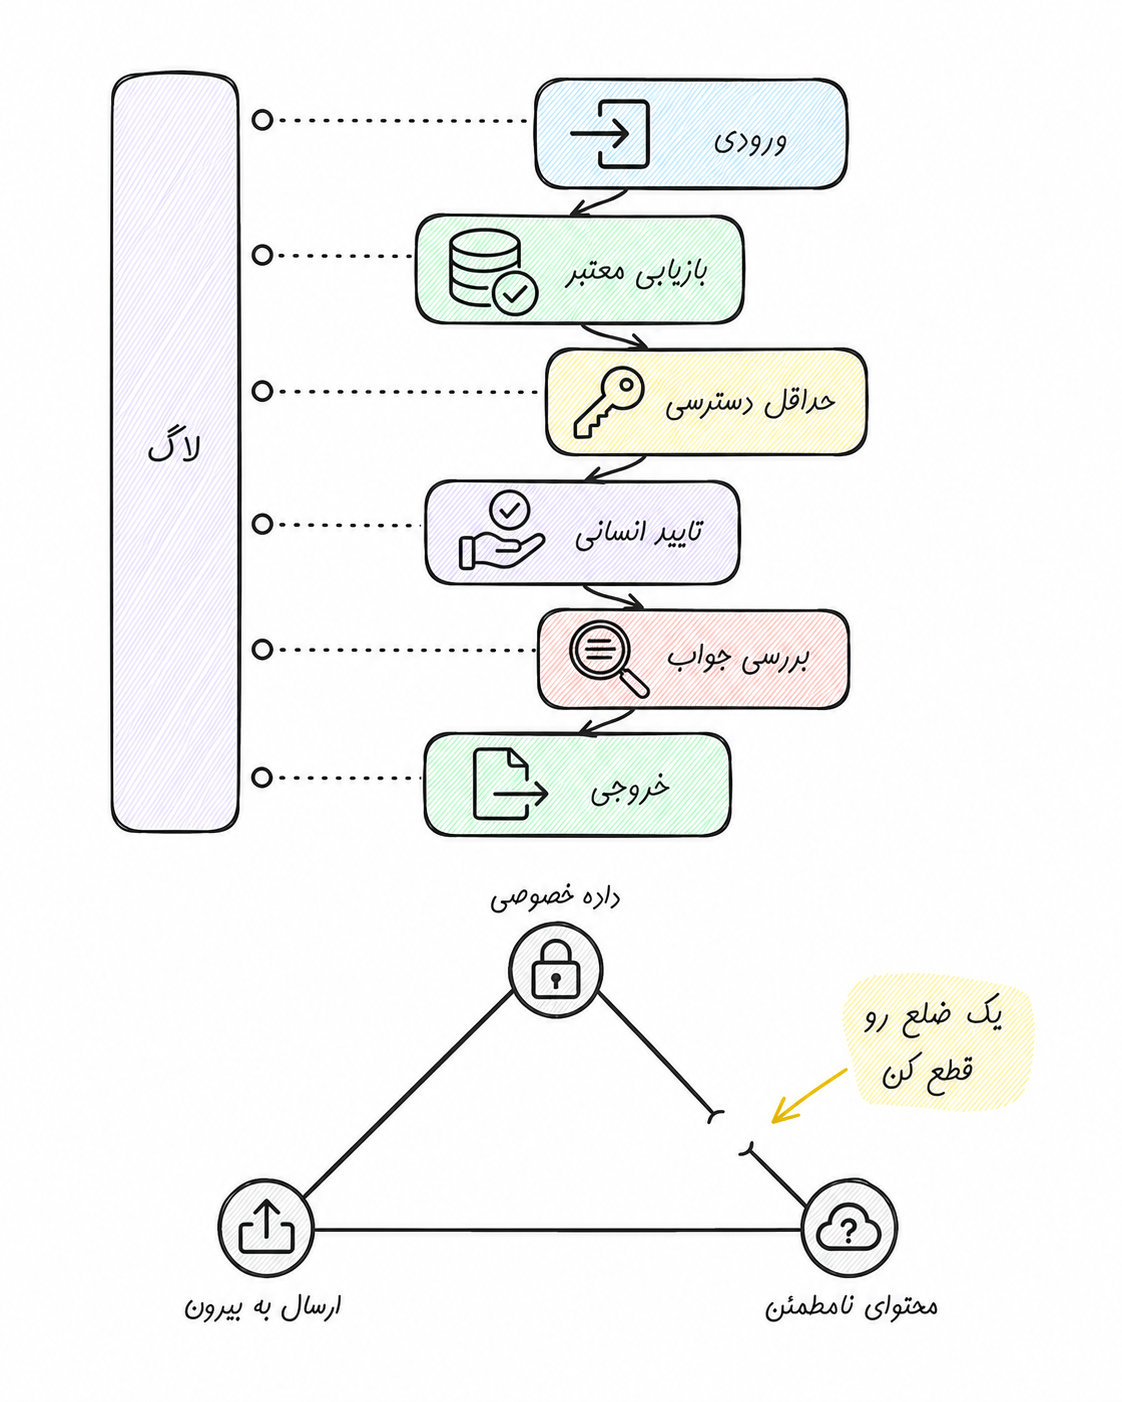
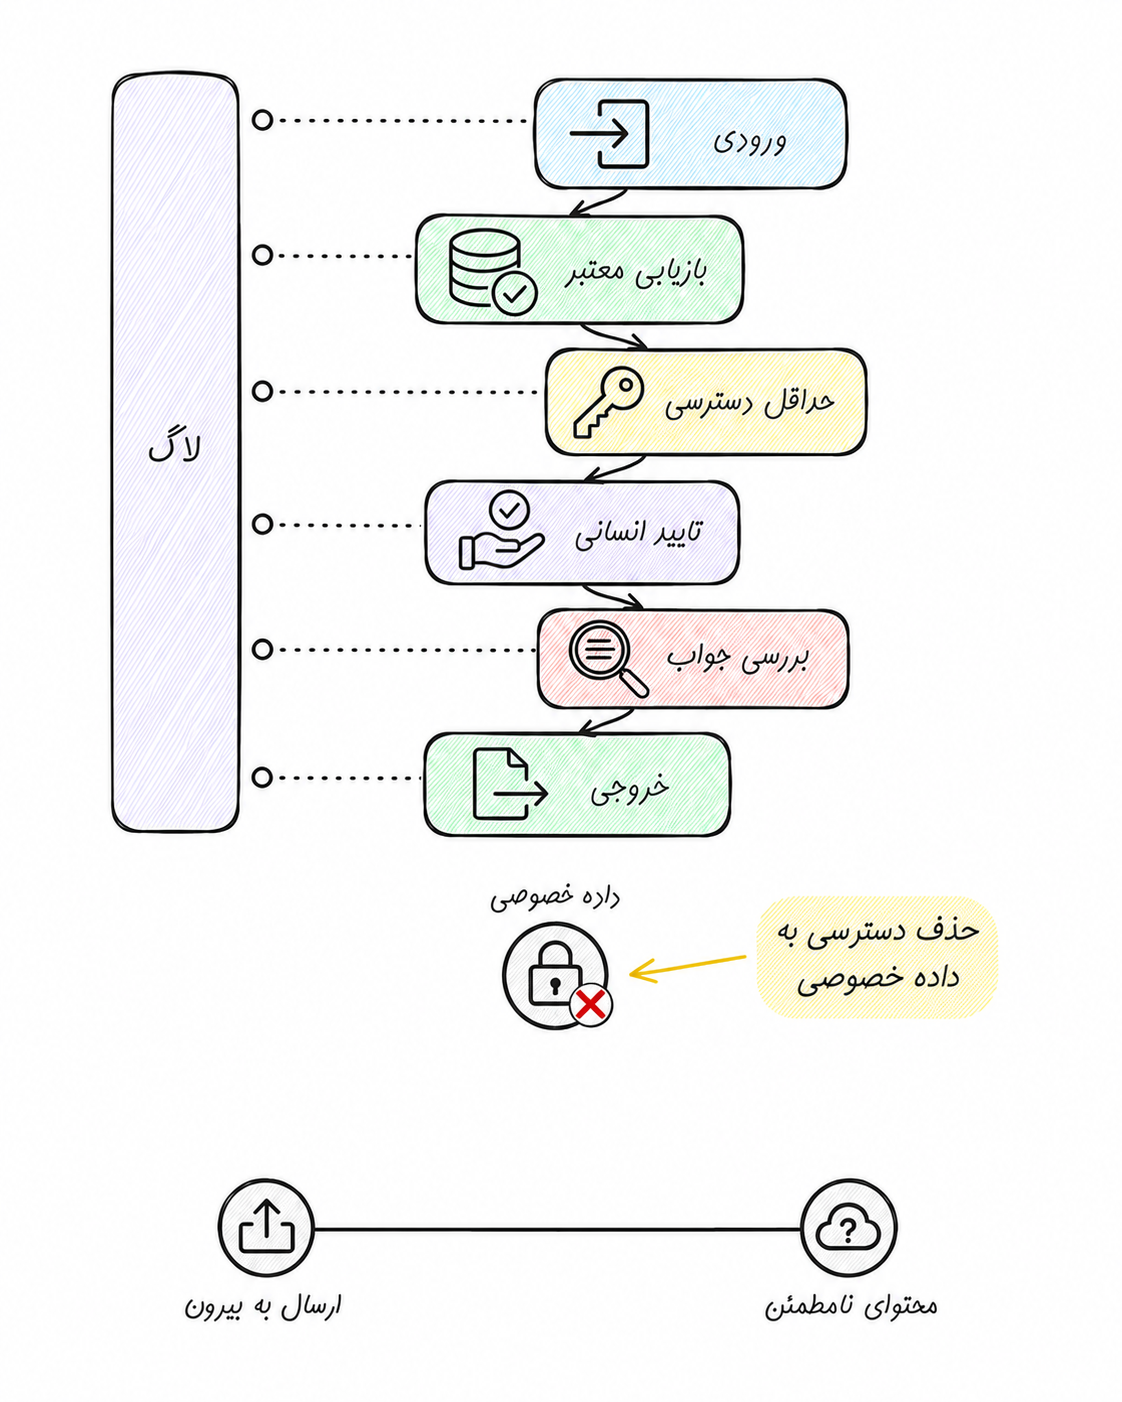
Correct verification, agent access and evaluator diagrams

diff --git a/README.md b/README.md
@@ -4394,7 +4394,7 @@ else:
 
 ![چهار روش ارزیابی انسانی، مدل داور، معیار خودکار و مقایسه جفتی با کاربردها و محدودیتهای متفاوت](images/vis-42-evaluation-methods-map.png)
 
-> 🖼 شکل، ارزیابی انسانی، مدل داور، معیار خودکار و مقایسه جفتی رو کنار هم میذاره؛ هر کدوم کاربرد و محدودیت خودش رو داره. منظور از «کالیبراسیون» داور تو شکل، مقایسه نمرههاش با ارزیابی انسانه. برای جواب قابل محاسبه، آزمون مستقیم هم گزینه خوبیه که تو شکل جدا نیومده.
+> 🖼 شکل، ارزیابی انسانی، مدل داور، معیار خودکار و مقایسه جفتی رو کنار هم میذاره؛ هر کدوم کاربرد و محدودیت خودش رو داره. خطچین، سنجش نمرههای داور با ارزیابی انسان رو نشون میده. برای جواب قابل محاسبه، آزمون مستقیم هم گزینه خوبیه که تو شکل جدا نیومده.
 
 ---
 
